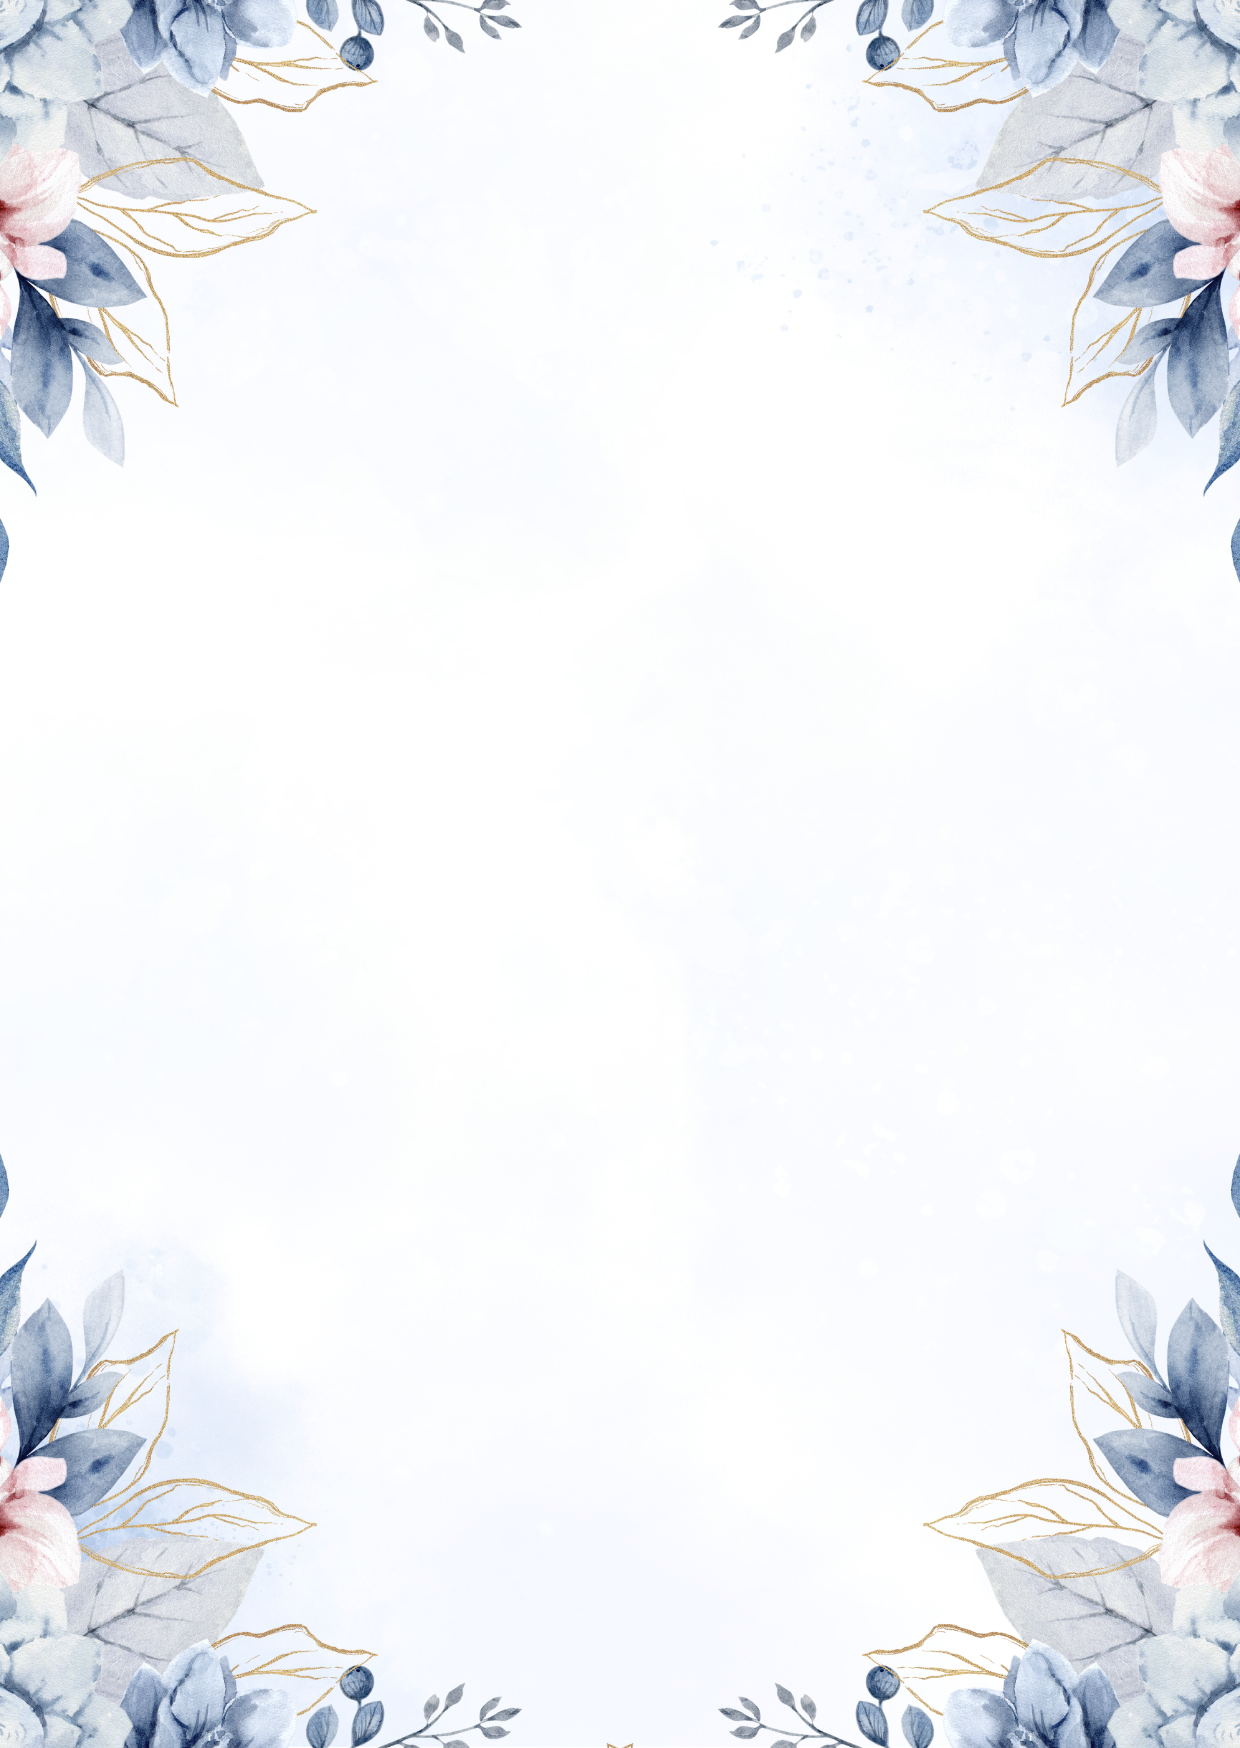
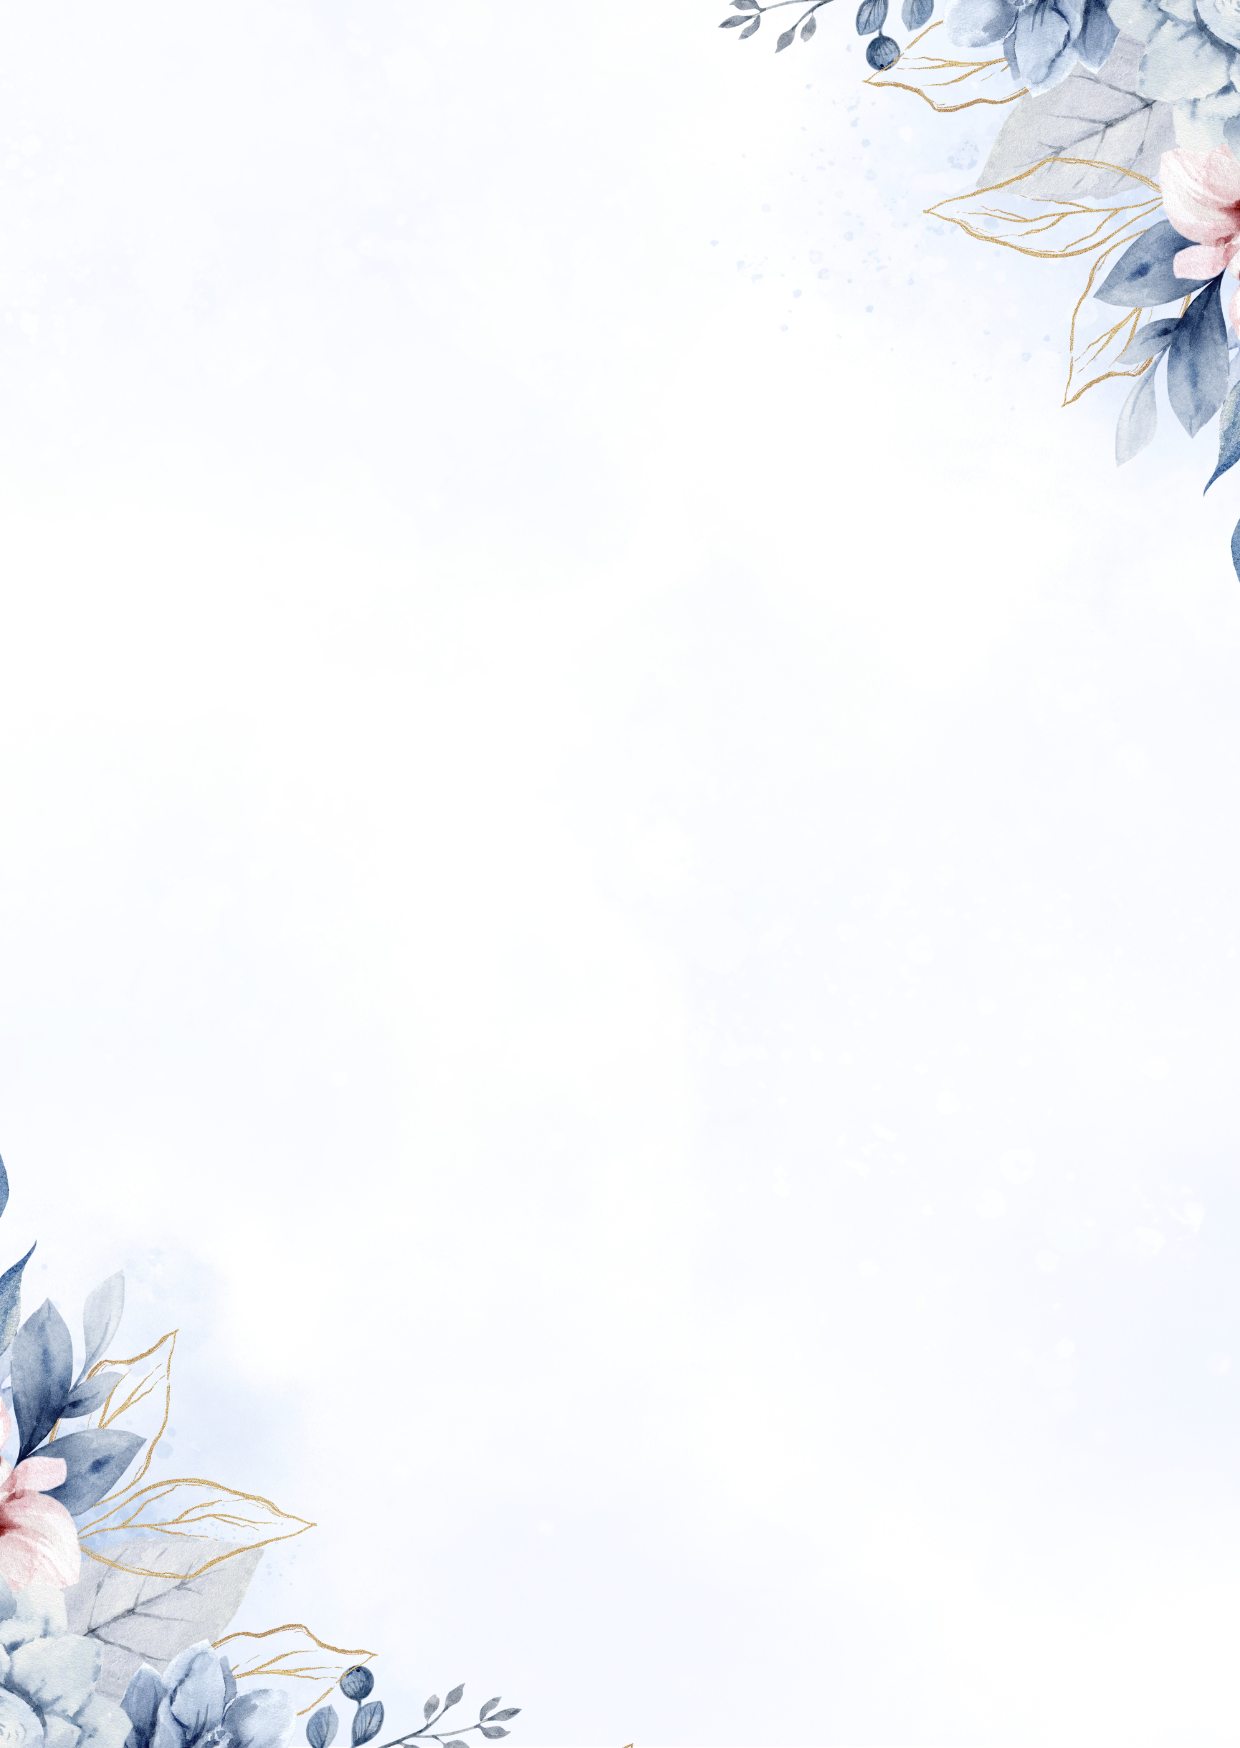
Implement fixed parallax-style background scrolling for 2.png while 1.png scrolls up

diff --git a/code.html b/code.html
@@ -115,16 +115,11 @@
 
         /* Card styles with 1.png and 2.png backgrounds */
         .invitation-card {
-            background-image: url('2.png');
-            background-size: 100% 100%;
-            background-repeat: no-repeat;
-            background-position: center;
             position: relative;
-            box-shadow: 0 6px 25px rgba(61, 90, 128, 0.12);
         }
 
         .invitation-card-hero {
-            background-image: url('Iqbal.png');
+            background-image: url('1.png');
             background-size: 100% 100%;
             background-repeat: no-repeat;
             background-position: center;
@@ -174,6 +169,9 @@
     <div
         class="w-full max-w-[480px] h-[100dvh] bg-brand-light shadow-[0_0_50px_rgba(61,90,128,0.15)] relative flex flex-col overflow-hidden">
 
+        <!-- Fixed Background Layer (2.png) -->
+        <div class="absolute inset-0 pointer-events-none z-0" style="background-image: url('2.png'); background-size: 100% 100%; background-position: center; background-repeat: no-repeat;"></div>
+
         <div id="gateContainer"
             class="absolute inset-0 z-50 flex overflow-hidden pointer-events-auto transition-opacity duration-[1200ms] ease-in-out">
             <div id="leftGate"
@@ -216,7 +214,7 @@
 
 
         <div id="mainContent"
-            class="w-full h-full overflow-y-auto card-scroller flex flex-col mobile-content bg-brand-light select-text">
+            class="w-full h-full overflow-y-auto card-scroller flex flex-col mobile-content select-text relative z-10">
 
 
 
@@ -411,7 +409,8 @@
                     class="flex flex-col items-center p-4 w-36 bg-white/50 border border-gold/25 hover:border-gold rounded-2xl transition-all duration-300 group">
                     <img src="google_cal_icon.png" alt="Google Calendar"
                         class="w-10 h-10 mb-2 group-hover:scale-110 transition-transform duration-200 object-contain">
-                    <span class="font-sans text-[9px] uppercase tracking-wider text-navy font-bold">Google Calendar</span>
+                    <span class="font-sans text-[9px] uppercase tracking-wider text-navy font-bold">Google
+                        Calendar</span>
                 </a>
             </div>
         </div>